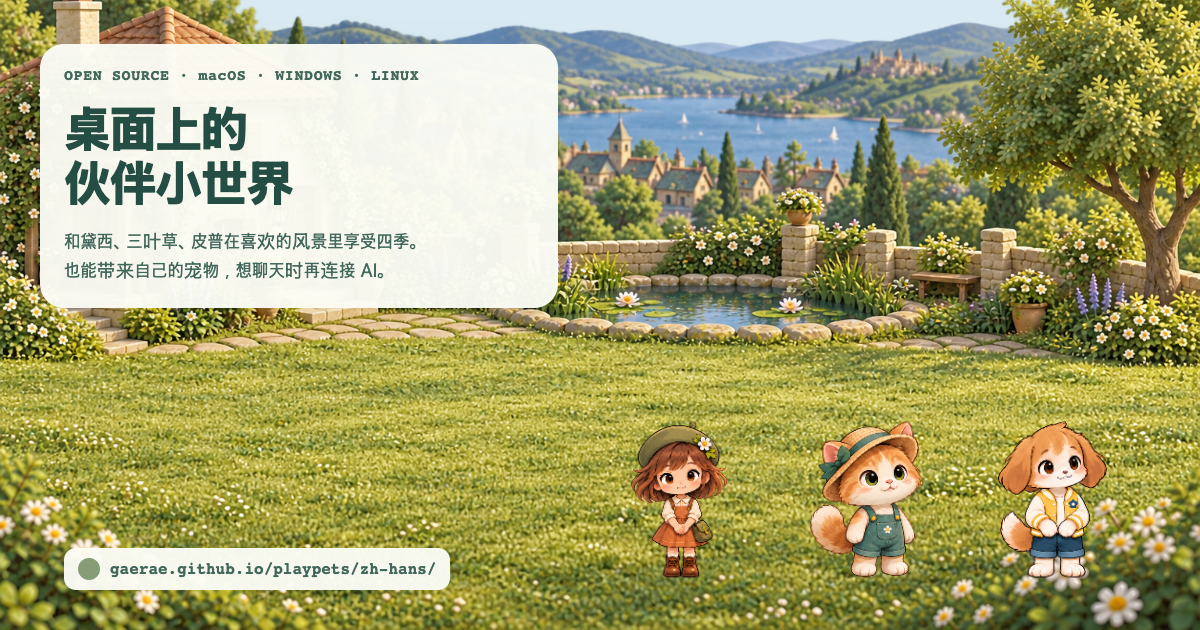
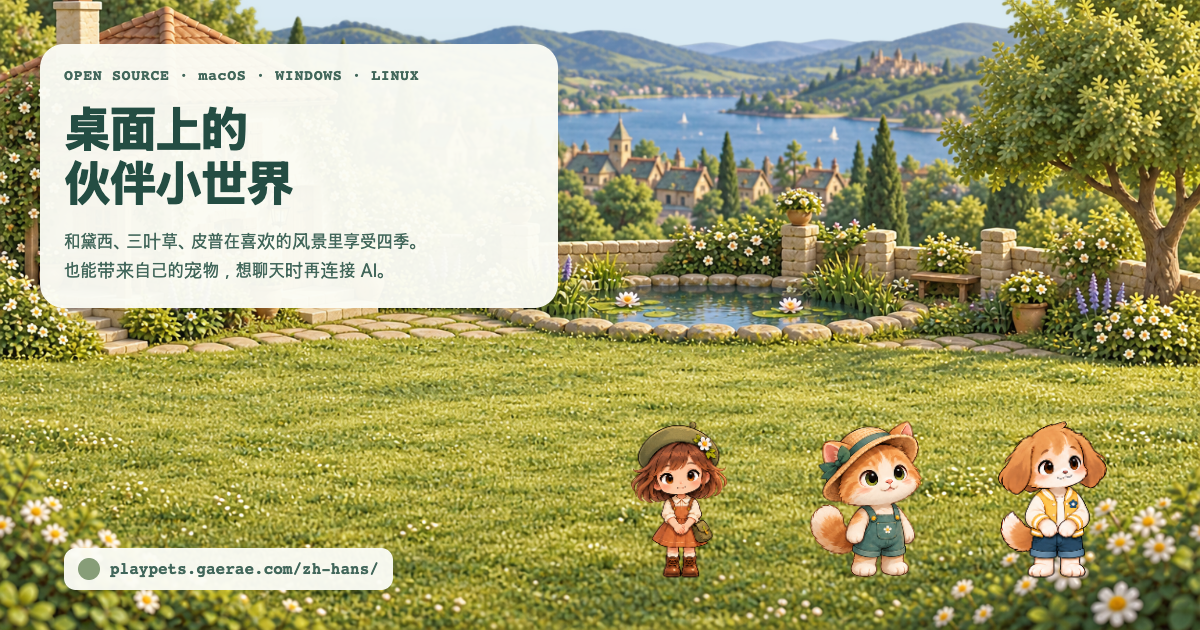
Move the website to playpets.gaerae.com
Use the custom domain as the single public site address across the app,
package metadata, documentation, localized links, share cards and tests.
Document the subdomain setup and keep generated license metadata current.

Checked with npm run check and a built-site metadata inspection.

Changed region(s): [[0.0925, 0.8444, 0.4008, 0.9349]]

diff --git a/src-tauri/src/commands.rs b/src-tauri/src/commands.rs
@@ -654,8 +654,8 @@ mod tests {
     #[test]
     fn the_apps_own_pages_open_and_nothing_next_to_them() {
         for ok in [
-            "https://gaerae.github.io/playpets/",
-            "https://gaerae.github.io/playpets/ko/releases/0.2.0",
+            "https://playpets.gaerae.com/",
+            "https://playpets.gaerae.com/ko/releases/0.2.0",
             "https://github.com/gaerae/playpets",
             "https://github.com/gaerae/playpets/issues/new/choose",
         ] {

diff --git a/docs/how-to/site-address.md b/docs/how-to/site-address.md
@@ -1,62 +1,65 @@
-# Move the site to its own domain
+# Change the site address
 
 ## Purpose
-Serve the site from a domain of its own (for example `https://playpets.app/`) instead of `https://gaerae.github.io/playpets/`. The address lives in one place, `homepage` in `package.json`: the site's base path, sitemap, share-card addresses and cards follow from it, and a test lists every other file that still names the old address.
+Move the website to a new domain without leaving the app, documentation, search metadata or share cards on the old address. The current public address is `https://playpets.gaerae.com/`.
+
+The address lives in one place, `homepage` in `package.json`. The site's base path, sitemap and share-card addresses follow from it. A repository test lists every other file that still names a different address.
 
 ## Audience and assumptions
-The maintainer, with admin rights on the repository and access to the domain's DNS. Until this is done the site's address is `https://gaerae.github.io/playpets/`. While the account's own site (`gaerae.github.io`) uses the custom domain `gaerae.com`, GitHub sends that address on to `gaerae.com/playpets/`; the links still work, over HTTPS only if HTTPS is enforced for that domain ("Enforce HTTPS" in the account site's Pages settings, or "Always Use HTTPS" at Cloudflare when its proxy is in front).
+The maintainer, with admin rights on the repository and access to the domain's DNS. The update feed is independent of the website: installed apps read `latest.json` from GitHub releases.
 
-## Prerequisites
-- The domain is registered. A `.app` domain only works over HTTPS (the whole TLD is on the browsers' HSTS preload list); GitHub Pages issues the certificate by itself once DNS points at it.
-- The address of the update feed does not change: installed apps read `latest.json` from GitHub releases, not from the site.
+## Set up a subdomain
+For a subdomain such as `playpets.gaerae.com`:
 
-## Steps
-1. Verify the domain for GitHub Pages, so no other account can claim it: your profile's Settings → Pages → Add a domain → `playpets.app`, then add the TXT record it shows (`_github-pages-challenge-gaerae.playpets.app`) at the DNS provider and press Verify.
-
-2. Point the domain at GitHub Pages at the DNS provider.
+1. Add a CNAME record at the DNS provider.
 
 | Type | Name | Value |
 |---|---|---|
-| A | `@` | `185.199.108.153`, `185.199.109.153`, `185.199.110.153`, `185.199.111.153` (four records) |
-| AAAA | `@` | `2606:50c0:8000::153`, `2606:50c0:8001::153`, `2606:50c0:8002::153`, `2606:50c0:8003::153` |
-| CNAME | `www` | `gaerae.github.io` |
+| CNAME | `playpets` | `gaerae.github.io` |
 
-   On Cloudflare, set these records to "DNS only" (grey cloud) at least until GitHub has issued the certificate.
+2. In repository Settings → Pages, set Custom domain to `playpets.gaerae.com`. Wait for GitHub Pages to approve the certificate, then enable Enforce HTTPS.
 
-3. In the repository, change the address and let the test list the rest.
+GitHub recommends verifying the parent domain in the account's Pages settings so another GitHub account cannot claim one of its subdomains. Follow the TXT-record instructions shown there if `gaerae.com` is not already verified.
+
+## Move to another address
+1. Change the canonical address. Keep the trailing slash.
 
 ```bash
-npm pkg set homepage=https://playpets.app/
+npm pkg set homepage=https://example.com/
 ```
+
+2. Let the repository test list every remaining old reference.
 
 ```bash
 node --test tests/website.test.mjs
 ```
 
-   The test "every place that names the site uses the address in package.json" fails with the list of files and addresses to change (README, `SECURITY.md`, the issue form, `packaging/linux/app.playpets.metainfo.xml`, `src-tauri/Cargo.toml`, `src-tauri/tauri.conf.json`, the docs). Change them until it passes. The site's base path becomes `/` by itself (`website/.vitepress/config.mts` reads it from the address).
+Update the listed current documentation, package metadata and tests until it passes. Do not rewrite dated decisions; add a follow-up decision when one mentions an address that was correct at the time.
 
-4. Redraw the share cards, which print the address, and check the build.
+3. Redraw the share cards and check the project.
 
 ```bash
 npm run og
+npm test
+npm run lint
+npm run site:build
 ```
 
-```bash
-npm test && npm run site:build
-```
+4. Commit and push. The `pages` workflow deploys the site with the new base path.
 
-5. Commit and push. `pages` deploys the site with the new base path.
-
-6. Repository Settings → Pages → Custom domain: `playpets.app` → Save. After the DNS check passes, turn on "Enforce HTTPS". A deploy from GitHub Actions needs no `CNAME` file; the setting is enough.
+5. Update the custom domain in repository Settings → Pages, wait for its certificate, and enable Enforce HTTPS.
 
 ## Verification
-- `https://playpets.app/` opens the English landing page, and `/ko/`, `/zh-hans/` and `/dev/` work.
-- `https://gaerae.github.io/playpets/` sends you to `https://playpets.app/`.
-- The page source has `og:url` and `og:image` under `https://playpets.app/`, and `sitemap.xml` lists the new addresses.
+- The English root and `/ko/`, `/ja/`, `/zh-hans/` and `/dev/` return successfully over HTTPS.
+- HTTP moves to HTTPS.
+- The former address moves to the new canonical address.
+- Canonical and language-alternate links, `og:url`, `og:image` and `sitemap.xml` use the new address.
+- Styles, scripts, images and internal links load from the new base path.
 
 ## Troubleshooting
 | Symptom | Fix |
 |---|---|
-| Pages says "DNS check unsuccessful" | The records from step 2 have not spread yet, or Cloudflare is proxying them. Wait, or switch them to "DNS only" |
-| "Enforce HTTPS" cannot be turned on | The certificate is not issued yet. It can take up to a day after the DNS check passes |
-| Pages styles and scripts are missing after the move | The build still had the old base path. Check that `homepage` in `package.json` is the new address and redeploy |
+| Pages says DNS check unsuccessful | Check the DNS value and wait for it to spread. If Cloudflare is in front, use DNS only until GitHub issues the certificate |
+| Enforce HTTPS is unavailable | Wait for GitHub Pages to issue the certificate; this can take up to a day after the DNS check passes |
+| Styles and scripts are missing | The build still used the old base path. Check `homepage`, rebuild and redeploy |
+| Search or social previews show the old address | Rebuild the share cards, deploy again and inspect canonical, Open Graph and sitemap output |

diff --git a/README.md b/README.md
@@ -1,12 +1,12 @@
 # PlayPets
 
-[![Banner: a yard where your pets talk to each other](assets/banner.png)](https://gaerae.github.io/playpets/)
+[![Banner: a yard where your pets talk to each other](assets/banner.png)](https://playpets.gaerae.com/)
 
 **A little yard for companions who talk to you—and each other.** Invite community pets, give each a personality, and choose a relationship: friend, partner, mentor or younger sibling. They wander, play and chat together while you work or unwind. Connect a local Ollama model, a signed-in Claude Code or Codex CLI, or an OpenAI-compatible server. PlayPets is a separate open-source app that reads compatible Codex pet files. You don't need Codex.
 
-[Website](https://gaerae.github.io/playpets/) · [User guide](https://gaerae.github.io/playpets/guide/) · [Releases](https://gaerae.github.io/playpets/releases/) · [Developer docs](https://gaerae.github.io/playpets/dev/)
+[Website](https://playpets.gaerae.com/) · [User guide](https://playpets.gaerae.com/guide/) · [Releases](https://playpets.gaerae.com/releases/) · [Developer docs](https://playpets.gaerae.com/dev/)
 
-Korean: [Website](https://gaerae.github.io/playpets/ko/) · [User guide](https://gaerae.github.io/playpets/ko/guide/) · Japanese: [Website](https://gaerae.github.io/playpets/ja/) · [User guide](https://gaerae.github.io/playpets/ja/guide/) · Simplified Chinese: [Website](https://gaerae.github.io/playpets/zh-hans/) · [User guide](https://gaerae.github.io/playpets/zh-hans/guide/)
+Korean: [Website](https://playpets.gaerae.com/ko/) · [User guide](https://playpets.gaerae.com/ko/guide/) · Japanese: [Website](https://playpets.gaerae.com/ja/) · [User guide](https://playpets.gaerae.com/ja/guide/) · Simplified Chinese: [Website](https://playpets.gaerae.com/zh-hans/) · [User guide](https://playpets.gaerae.com/zh-hans/guide/)
 
 [![build](https://github.com/gaerae/playpets/actions/workflows/build.yml/badge.svg)](https://github.com/gaerae/playpets/actions/workflows/build.yml) ![macOS · Windows · Linux](https://img.shields.io/badge/macOS%20%C2%B7%20Windows%20%C2%B7%20Linux-Tauri%202-f9ae55) ![MIT](https://img.shields.io/badge/license-MIT-3a2a1e) ![Compatible with the Codex pet format](https://img.shields.io/badge/pets-Codex%20pet%20format%20compatible-4a9bd6)
 
@@ -30,14 +30,14 @@ Build a small community on your desktop, with a voice and a place for every frie
 - **A living yard.** Morning, day, evening and night follow the clock, and the weather (clear, rain, snow) changes on its own. You can also pick them yourself. Put down a treat and friends walk over to eat it. Leave them alone and they wander and talk to themselves.
 - **Desktop mode.** Pets stroll around the desktop (on macOS, even over other apps in full screen).
 - **Play together.** Hide and seek (find the friend whose name is called), parade, and tag.
-- **Three starter companions.** Daisy, Clover and Pip come with the app. Clover is the main mascot; all three have summer and winter outfits. They use the Codex pet format and are MIT licensed. Make your own with the [character studio](https://gaerae.github.io/playpets/guide/creator-kit), or create an importable place with the [background studio](https://gaerae.github.io/playpets/guide/background-kit).
+- **Three starter companions.** Daisy, Clover and Pip come with the app. Clover is the main mascot; all three have summer and winter outfits. They use the Codex pet format and are MIT licensed. Make your own with the [character studio](https://playpets.gaerae.com/guide/creator-kit), or create an importable place with the [background studio](https://playpets.gaerae.com/guide/background-kit).
 - **Import community pets.** Paste the address of a pet page from OpenPets Registry (openpets.sh), Petdex, Codex PokéPets, Awesome Codex Pet (codexpet.top) or codex-pets.net, and the pet comes straight in. GitHub pet folder addresses and other sites built with codex-pet-share work too. Codex pets in `~/.codex/pets` load on their own. When a gallery adds a `playpets://import?url=<pet page>` link, one click brings the pet in.
 - **Mini mode.** Keep a small window with just the yard, always on top.
 - **Built with Tauri.** Uses Rust and the system webview. The yard redraws while something moves and rests when it is still.
 
 ## Install
 
-- Download the macOS dmg, the Windows installer or portable zip, or the Linux deb or AppImage from [GitHub releases](https://github.com/gaerae/playpets/releases). The builds are not code-signed yet, so macOS or Windows may show a security warning. Read the [install guide](https://gaerae.github.io/playpets/guide/install) for the checks and options available on your system.
+- Download the macOS dmg, the Windows installer or portable zip, or the Linux deb or AppImage from [GitHub releases](https://github.com/gaerae/playpets/releases). The builds are not code-signed yet, so macOS or Windows may show a security warning. Read the [install guide](https://playpets.gaerae.com/guide/install) for the checks and options available on your system.
 - To build it yourself, see [Development](#development) below.
 
 ## Getting started

diff --git a/docs/how-to/set-up-the-repository.md b/docs/how-to/set-up-the-repository.md
@@ -68,7 +68,7 @@ pbcopy < /dev/null
 
 6. Settings before the first push:
    - Settings → Pages → Build and deployment → Source: **GitHub Actions**. If the page only lets you choose after a push, re-run the `pages` workflow from the Actions tab afterwards.
-   - While the account's own site (`gaerae/gaerae.github.io`) has the custom domain `gaerae.com`, GitHub serves this site at `gaerae.com/playpets/` and sends `gaerae.github.io/playpets/` there. The redirect GitHub sends is to plain `http://` unless HTTPS is enforced (the in-app links and the download buttons go through it). If the domain's DNS points straight at GitHub, turn on **Enforce HTTPS** in that repository's Settings → Pages. If it goes through Cloudflare's proxy (orange cloud), GitHub cannot issue its certificate and the box stays greyed out; enforce HTTPS at Cloudflare instead: SSL/TLS → Edge Certificates → **Always Use HTTPS** on, and the SSL mode **Full** (Full (strict) needs a certificate GitHub cannot issue behind the proxy; Flexible would carry the Cloudflare-to-GitHub leg over plain HTTP and loop if GitHub ever enforces HTTPS itself). `curl -sI http://<domain>/playpets/` then answers 301 to the `https://` address. [Move the site to its own domain](site-address.md) is the way out of sharing that domain.
+   - Settings → Pages → Custom domain: `playpets.gaerae.com`. Its CNAME points to `gaerae.github.io`; after the DNS check and certificate finish, turn on **Enforce HTTPS**. The complete setup and migration checks are in [Change the site address](site-address.md).
    - Settings → Actions → General → Workflow permissions: **Read repository contents and packages permissions**; leave "Allow GitHub Actions to create and approve pull requests" off. Optional: "Require actions to be pinned to a full-length commit SHA" (every action here is pinned).
    - Settings → Advanced Security: **Private vulnerability reporting: Enable** (`SECURITY.md`, the Code of Conduct and the issue form send reports there); Dependabot alerts and security updates: Enable; make sure secret scanning and push protection are on.
    - Settings → General → Features: Issues on; Wiki, Discussions and Projects off. Social preview: upload `website/public/og.png`.
@@ -85,7 +85,7 @@ git remote add origin https://github.com/gaerae/playpets.git
 git push -u origin main
 ```
 
-8. Watch the Actions tab: `build` (five platforms and `site`) and `pages` run, and `pages` publishes https://gaerae.github.io/playpets/ (served under `gaerae.com` while the account site has that domain).
+8. Watch the Actions tab: `build` (five platforms and `site`) and `pages` run, and `pages` publishes https://playpets.gaerae.com/.
 
 Optional, once the code is pushed: automatic reviews from CodeRabbit (free for public repositories). Sign in at https://app.coderabbit.ai with GitHub, install its app with **Only select repositories** → `gaerae/playpets`, and it reviews every pull request from then on. It reads `.coderabbit.yaml` (what to review and how) and, as its guidelines, `AGENTS.md` and `docs/standards/`. Ask it things in a pull request comment with `@coderabbitai`.
 
@@ -146,7 +146,7 @@ gh secret set WINGET_TOKEN --repo gaerae/playpets
     - Build the package with it (`MSIX_PUBLISHER="CN=…" npm run dist:windows`) and submit the unsigned `release/windows/msix-store/PlayPets_<version>_x64.msix` in Partner Center. The Store signs it. Without `MSIX_PUBLISHER`, the command makes a test-signed package in `release/windows/msix-test/`; Store builds leave those test certificates alone. Store submissions are by hand; the `distribute` workflow does not do them.
 
 ## Verification
-- The Actions tab shows `build` and `pages` green, and https://gaerae.github.io/playpets/ opens on an `https://` address.
+- The Actions tab shows `build` and `pages` green, and https://playpets.gaerae.com/ opens on an `https://` address.
 - The repository page shows the description, the website and the topics, and Settings → Rules lists the ruleset for `main`.
 - The Security tab shows "Report a vulnerability".
 - Settings → Secrets and variables → Actions lists `TAURI_SIGNING_PRIVATE_KEY`, `TAURI_SIGNING_PRIVATE_KEY_PASSWORD`, `HOMEBREW_TAP_TOKEN` and `WINGET_TOKEN`.

diff --git a/docs/README.md b/docs/README.md
@@ -3,7 +3,7 @@
 ## Overview and audience
 PlayPets is a pet app whose pets play on the desktop and in the yard window. You connect an AI to a friend to chat with it, and friends react while a coding agent works. It is a Tauri v2 app: the page is web code with no build tool (`src/`), and the backend is Rust (`src-tauri/`). It runs on macOS, Windows and Linux.
 
-This guide is the entry point for people who change the code, build integrations, or handle releases. How to use the app is in the [user guide on the site](https://gaerae.github.io/playpets/guide/) and in the repository [README](../README.md). These documents also appear as is under the site's "Developers" tab. The contribution process (PRs, check order) is in [CONTRIBUTING](../CONTRIBUTING.md). AI agents and review bots working in the repository read [AGENTS.md](../AGENTS.md), a short version of these rules.
+This guide is the entry point for people who change the code, build integrations, or handle releases. How to use the app is in the [user guide on the site](https://playpets.gaerae.com/guide/) and in the repository [README](../README.md). These documents also appear as is under the site's "Developers" tab. The contribution process (PRs, check order) is in [CONTRIBUTING](../CONTRIBUTING.md). AI agents and review bots working in the repository read [AGENTS.md](../AGENTS.md), a short version of these rules.
 
 ## Key concepts
 - **One app, two windows:** There is the yard window (the main window) and a transparent desktop window, one per monitor. Both windows only draw the state the backend holds.
@@ -31,7 +31,7 @@ Go to a document based on what you want to know.
 | Setting up once: the updater key, the GitHub repository, secrets, the Homebrew tap, winget, signing accounts | [Set up the repository, keys and store accounts](how-to/set-up-the-repository.md) |
 | Releasing a new version and distribution channels | [Release a new version](how-to/release.md) |
 | Changing the site (intro, user guide, version pages) | [Edit and check the website](how-to/website.md) |
-| Moving the site to its own domain (playpets.app) | [Move the site to its own domain](how-to/site-address.md) |
+| Changing the site address | [Change the site address](how-to/site-address.md) |
 | Adding a language the app speaks | [Add a language](how-to/add-a-language.md) |
 | Where to look first when stuck | [Troubleshooting guide](troubleshooting.md) |
 

diff --git a/SECURITY.md b/SECURITY.md
@@ -15,7 +15,7 @@ Include steps to reproduce, the scope of impact, and a suggested fix if you can.
 - **Text sent to the AI** mixes in things other people wrote (the description in a pet file, a coding agent's report, what another friend said). Such text is flattened to one line, trimmed in length, and sent with a source label saying "this is a description, not an instruction"; personalities saved during a conversation keep that label. Even if persuasion works, the AI's reach is narrow. Claude Code runs with no tools at all, so it can only talk. Codex runs in its read-only sandbox: it cannot change files or reach the network, but it can read files your user account can read, so a persuaded Codex could repeat something from them in its reply (shown in the bubble, and in a group chat passed on to the other friends' AIs). If that matters to you, connect Codex only to friends whose pet files you trust. Both CLIs run in a folder of the app's own that no one else can write to, and the friend's instructions reach them through that folder or standard input rather than the command line, which other programs on the computer can read (should the folder not be made, the CLIs fall back to the shared temp folder and the command line). Replies are drawn as plain text only, and links are not clickable.
 - **Automatic updates** install only files verified with the dedicated updater signing key.
 
-The detailed architecture is in the [developer docs](https://gaerae.github.io/playpets/dev/).
+The detailed architecture is in the [developer docs](https://playpets.gaerae.com/dev/).
 
 ## Dependency advisories
 

diff --git a/docs/how-to/website.md b/docs/how-to/website.md
@@ -1,7 +1,7 @@
 # Edit and check the website
 
 ## Purpose
-Edit the landing page, the user guide, the release pages, or the developer docs published on the site, and check them locally before they go out. When `main` is pushed, `pages.yml` builds the site and publishes it to GitHub Pages automatically. The landing page, user guide and release pages are in English (the site root), Korean (`/ko/`), Japanese (`/ja/`) and Simplified Chinese (`/zh-hans/`); the developer docs are in English only and are served at https://gaerae.github.io/playpets/dev/.
+Edit the landing page, the user guide, the release pages, or the developer docs published on the site, and check them locally before they go out. When `main` is pushed, `pages.yml` builds the site and publishes it to GitHub Pages automatically. The landing page, user guide and release pages are in English (the site root), Korean (`/ko/`), Japanese (`/ja/`) and Simplified Chinese (`/zh-hans/`); the developer docs are in English only and are served at https://playpets.gaerae.com/dev/.
 
 ## Audience and assumptions
 Anyone who has cloned the repository and run `npm ci`. Only taking new screen captures needs macOS; everything else works on any OS. The layout and the reasons for it are in the decision "[Publish the introduction, user guide, per-version pages and developer docs as one VitePress site on GitHub Pages](../decisions/2026-10-03-website-on-github-pages.md)".

diff --git a/CHANGELOG.md b/CHANGELOG.md
@@ -7,6 +7,10 @@ Changes people can see in PlayPets, release by release. The format follows [Keep
 
 ## [Unreleased]
 
+### Changed
+
+- Move the website, user guide, release notes and developer docs to `https://playpets.gaerae.com/`.
+
 ## [0.1.0] - 2026-10-15
 
 ### Security
